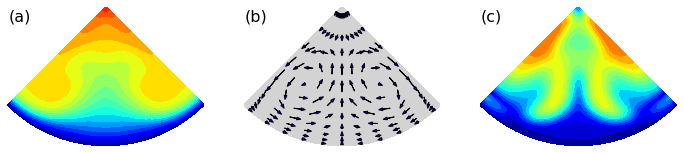
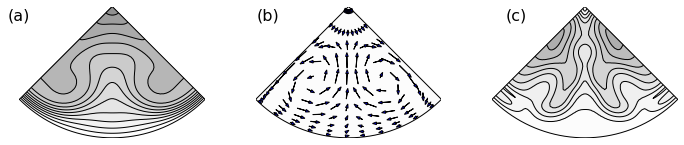
greys pictures +

diff --git a/ch2_edge.tex b/ch2_edge.tex
@@ -171,8 +171,8 @@
 На линейную устойчивость исследовано несколько однородных вдоль трубы полей скорости $\U_i$, повторяющих среднее поле скорости модельного порыва $\V$ в одном из поперечных сечений трубы с координатой $x_i$, $\U_i=\V(x_i)$. Все исследованные $\U_i$ в интервале $x_i \in (-8, 4)$ оказались неустойчивы, для каждого из них найдено наиболее неустойчивое собственное возмущение --- собственное возмущение, имеющее наибольшую скорость роста среди всех значений $\alpha$. Наиболее быстро растущее собственное возмущение поля скорости $\U_i$ при фиксированном значении $\alpha$ получено интегрированием произвольного начального возмущения до выхода на экспоненциальный режим роста $\sim e^{(\lambda + i\omega) t}$. 
 
 \begin{figure}
-\center{\includegraphics[width=0.8\linewidth]{cs_lin_map.png}}
-\caption{Сверху в поперечном сечении изображена амплитуда пульсаций наиболее быстрорастущего возмущения, возникающего на однородном вдоль трубы поле скорости $\U_i$, приведенном ниже. Однородное поле скорости повторяет среднее поле скорости в сечении $x$, указанном над иллюстрациями.}
+\center{\includegraphics[width=1\linewidth]{cs_lin_map.png}}
+\caption{В ряду (a) в поперечном сечении изображена амплитуда пульсаций наиболее быстрорастущего возмущения, возникающего на однородном вдоль трубы поле скорости $\U_i$, приведенном в ряду (b). Однородное поле скорости повторяет среднее поле скорости в сечении $x$, указанном под иллюстрациями.}
 \label{cs_lin_map_pic}
 \end{figure}
 

diff --git a/ch4_verify.tex b/ch4_verify.tex
@@ -157,7 +157,7 @@ x_1 = (a + 1) x_2 - a x_3,
 
 \begin{figure}
 \center{\includegraphics[width=0.9\linewidth]{3D_contin_cmp.png}}
-\caption{Среднее поле скорости модельного порыва (1) и решения с верхней ветви при $\Re = 1700$ (2). Представлены изоповерхности, на которых скорость на 0.1 больше (красный) и меньше (синий) скорости в ламинарном течении. Поток направлен слева направо. }
+\caption{Среднее поле скорости модельного порыва (1) и решения с верхней ветви при $\Re = 1700$ (2). Темным и светлым тоном выделены поверхности скорости $-0.1$ и $+0.1$ относительно скорости течения Пуазейля. Поток направлен слева направо.}
 \label{3D_contin_cmp_pic}
 \end{figure}
 
